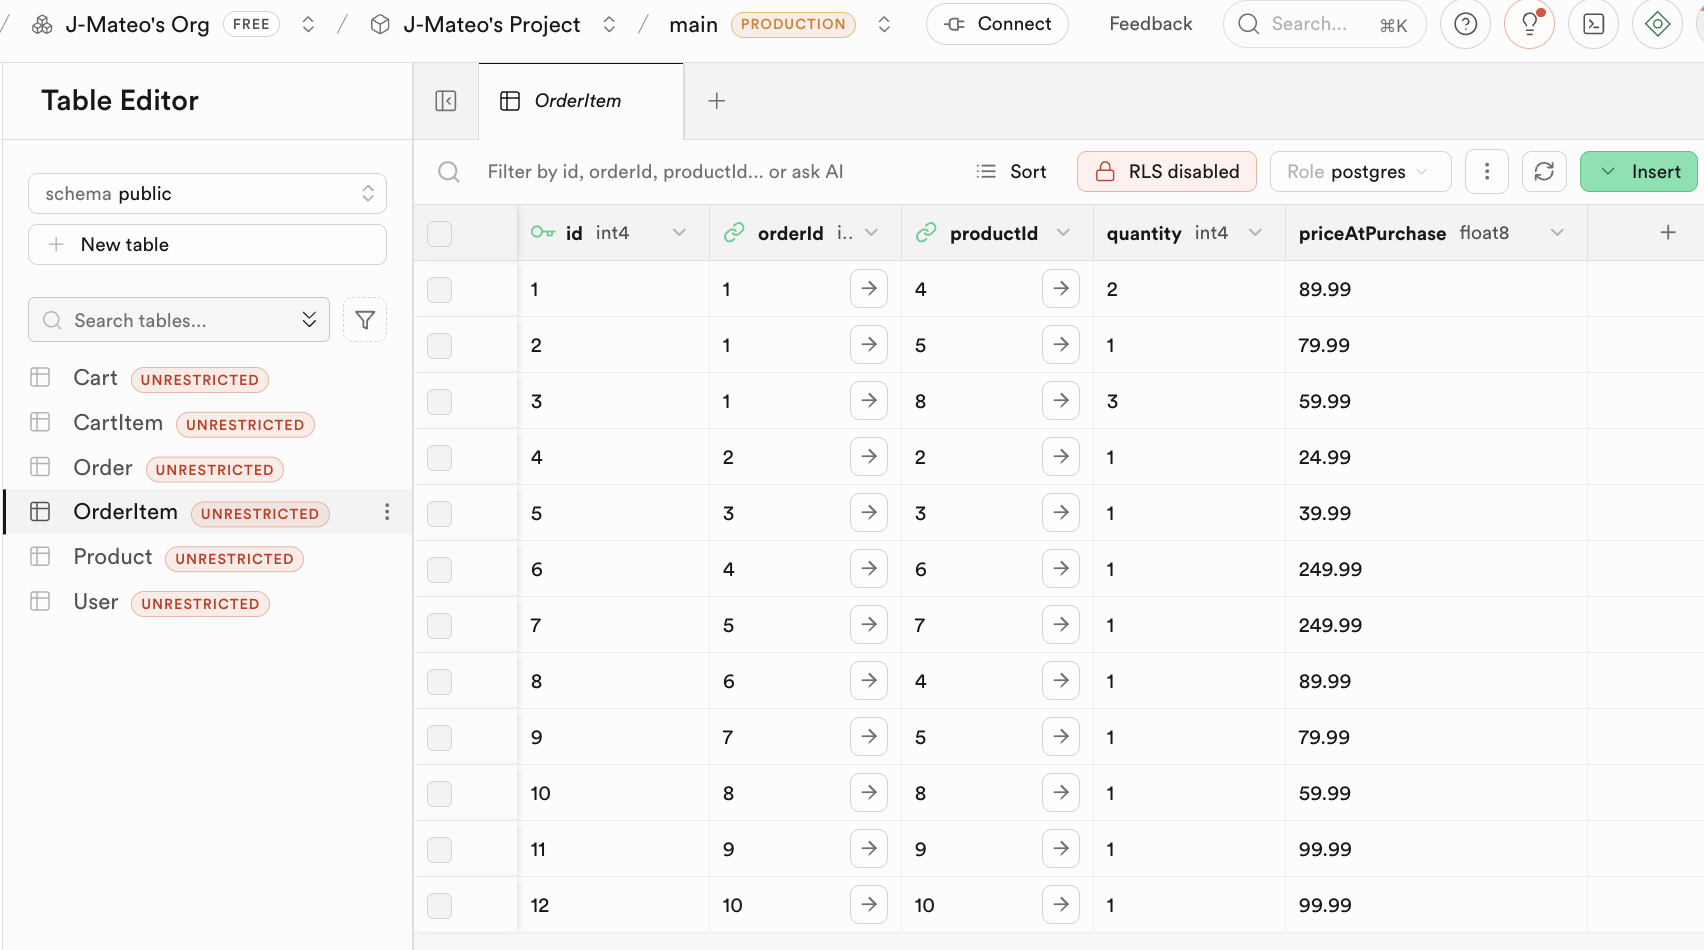
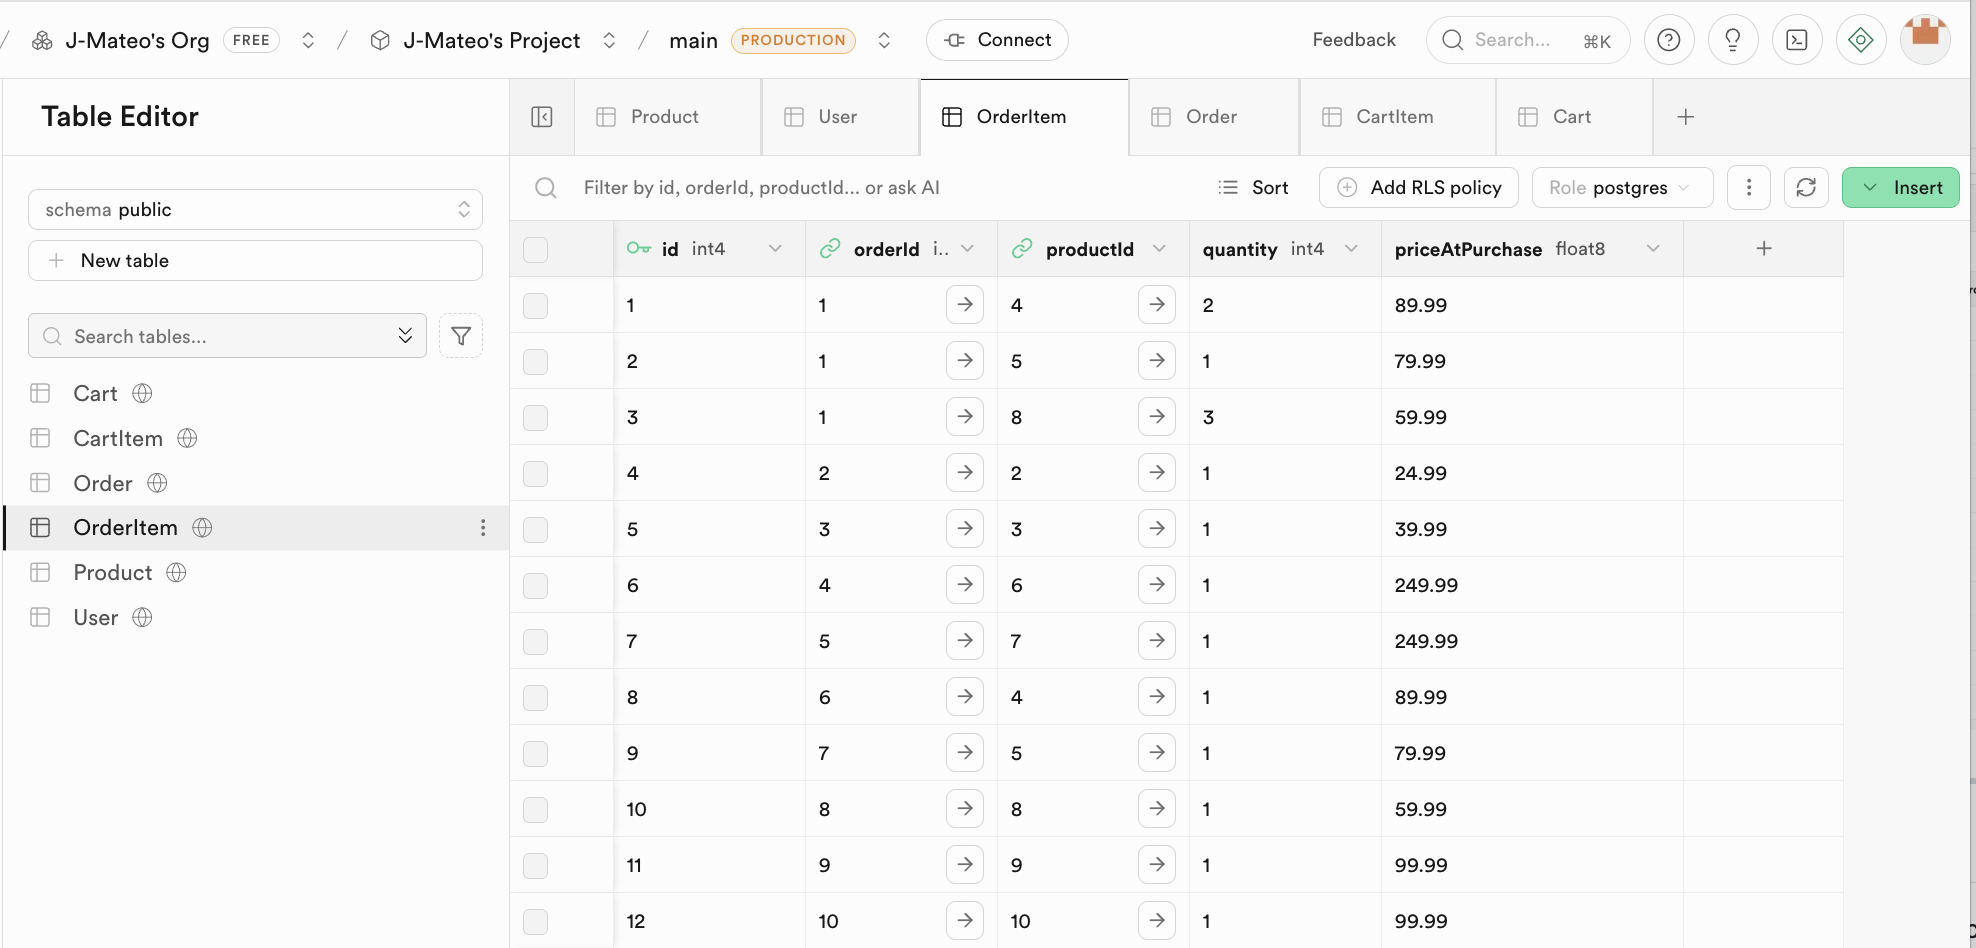
docs: update README screenshots and authentication docs

diff --git a/readme.md b/readme.md
@@ -12,7 +12,7 @@ https://backend-modulo2-api.onrender.com
 
 ### Swagger UI
 
-https://backend-modulo2-api.onrender.com/api/docs
+https://backend-modulo2-api.onrender.com/api/docs/
 
 ---
 